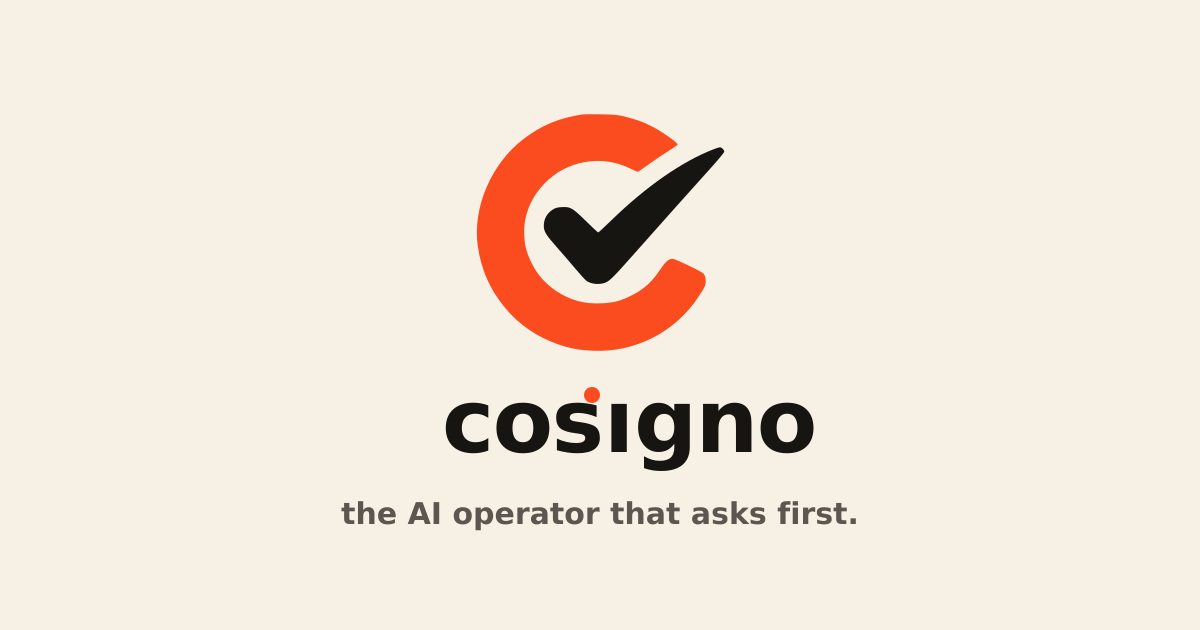
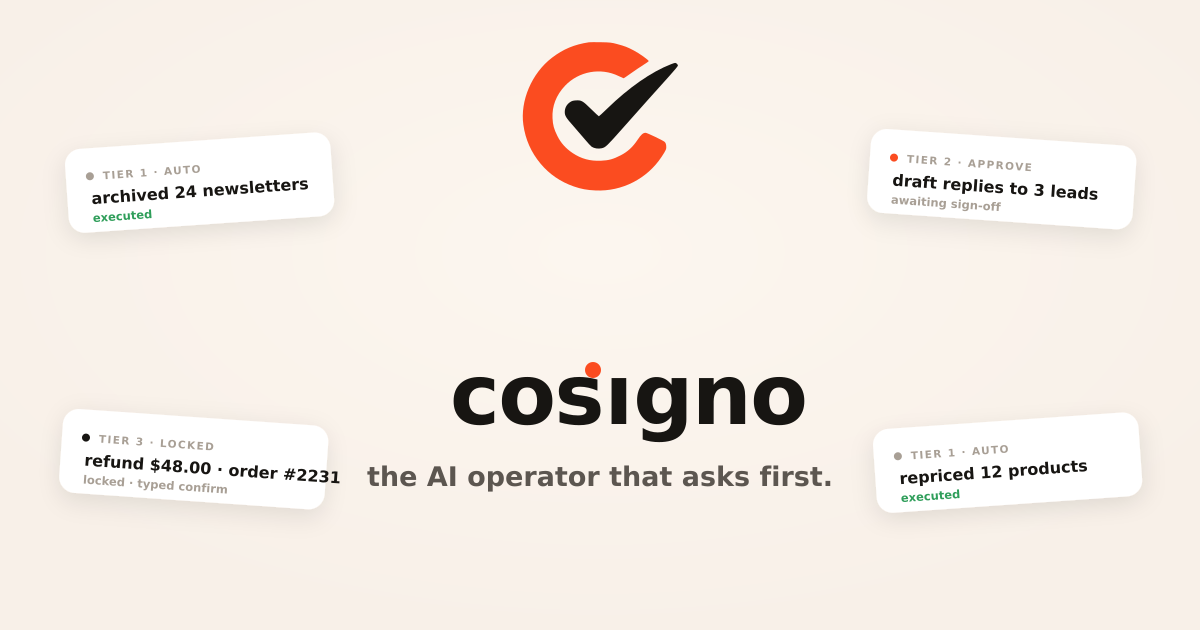
Rebrand the OG/social image: traced mark + rich tier-card layout, cache-busted
The link-preview (og.png) still showed the old 3D logo. Rebuilt the Open Graph
image as a rich card — the traced mark + wordmark (with orange i-dot) + tagline,
framed by four floating approval/receipt cards (TIER 1 auto / TIER 2 approve /
TIER 3 locked) on the exact cream field. Versioned the og URL (?v=5) so social
scrapers refetch instead of serving the cached old card.

Changed region(s): [[0.0308, 0.0603, 0.9558, 0.8444], [0.7092, 0.181, 0.9558, 0.3619], [0.0308, 0.2111, 0.2775, 0.3921]]

diff --git a/src/app/layout.tsx b/src/app/layout.tsx
@@ -69,13 +69,13 @@ export const metadata: Metadata = {
     description: DESCRIPTION,
     url: "https://cosignolabs.com",
     siteName: "cosigno",
-    images: [{ url: "/og.png", width: 1200, height: 630, alt: "cosigno" }],
+    images: [{ url: "/og.png?v=5", width: 1200, height: 630, alt: "cosigno" }],
   },
   twitter: {
     card: "summary_large_image",
     title: "cosigno — the AI operator that asks first",
     description: DESCRIPTION,
-    images: ["/og.png"],
+    images: ["/og.png?v=5"],
   },
 };
 
